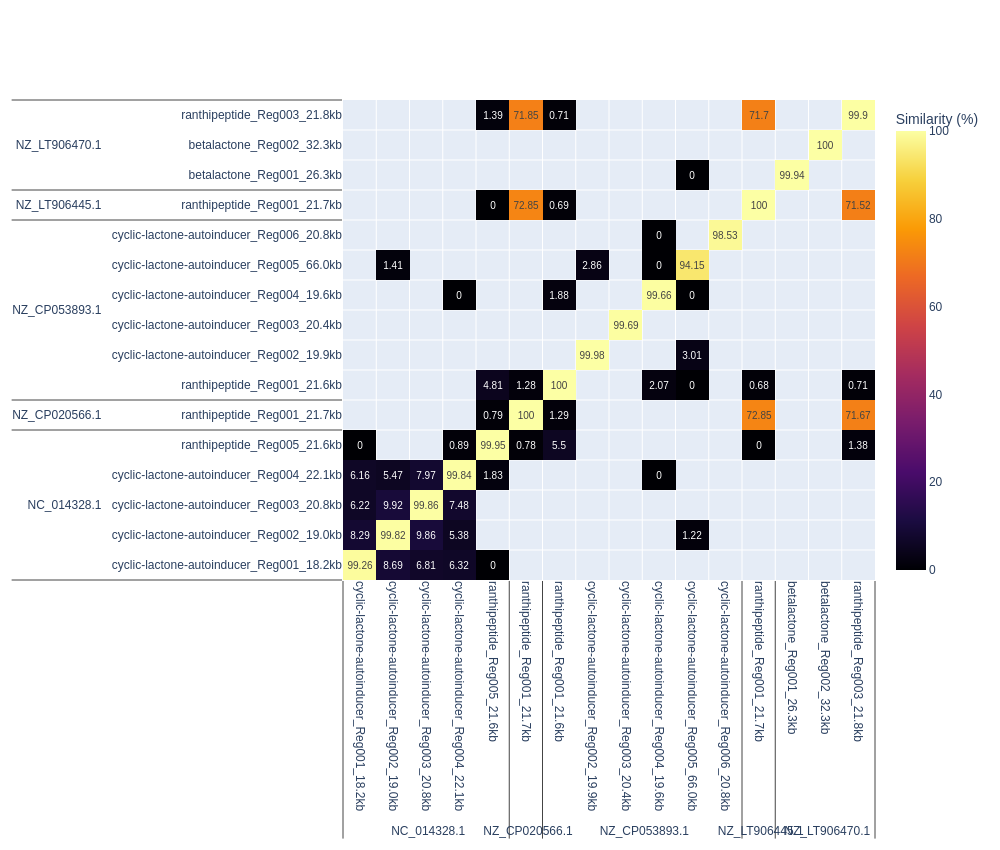
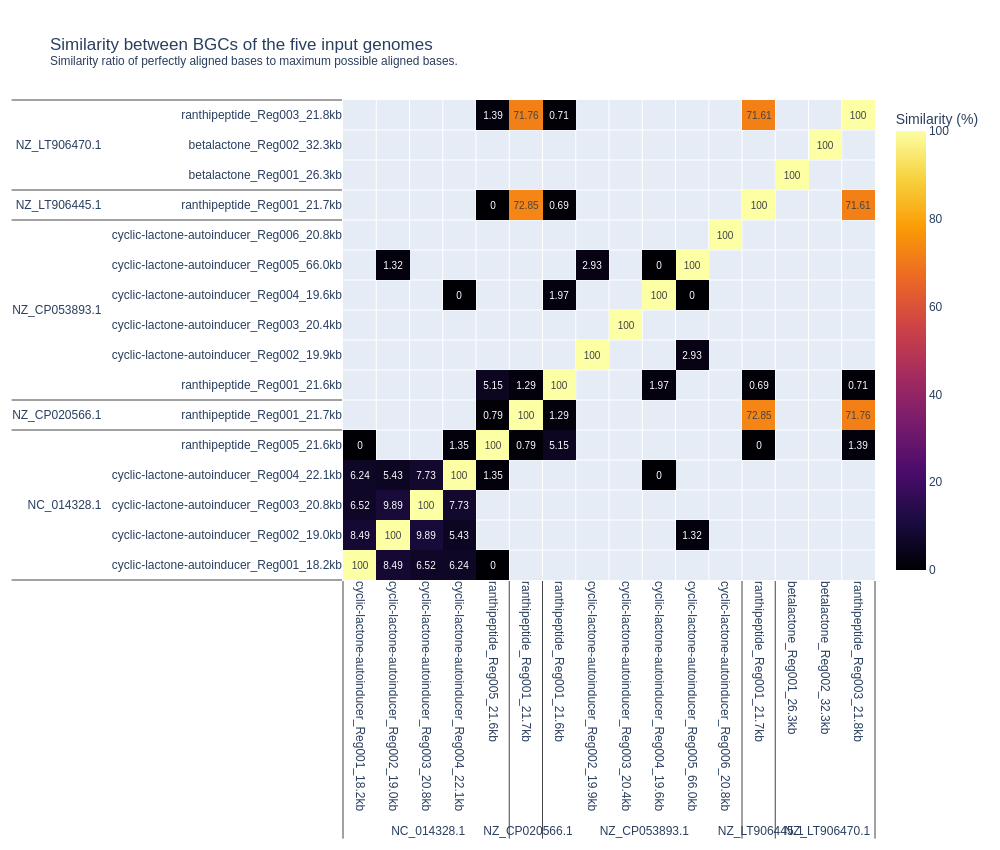
blast now runs with subject_besthit giving better results (incl summation script), fixed logging as child in add_external_logger

diff --git a/analysis/01_compare_input_bgc.py b/analysis/01_compare_input_bgc.py
@@ -31,64 +31,15 @@ def annotation_from_genbank(gbk_files: List[Path]) -> dict:
     return seq_annotation
 
 if __name__ == '__main__':
-
-    print("Running: " + __file__, file=sys.stderr)
-
     antismashdir = Path("data/simulated_data/antismash/input_genomes")
-    fp_pw_blast  = Path("data/simulated_data/blast_pairwise/input_bgc/combined_blast_results.tsv")
-    output       = Path("results/") / Path(__file__).stem
-    output.mkdir(parents=True, exist_ok=True)
-
-    assert(antismashdir.exists())
-    assert(fp_pw_blast.exists())
-
+    symmetric_blastres = Path("data/simulated_data/blast_pairwise/input_bgc/pairwise_table_symmetric.tsv")
+    output = Path("results") / Path(__file__).stem
+    
     gbk_files = [x for x in antismashdir.glob("*.gbk") if x.name != "combined.gbk"]
-    assert(len(gbk_files) > 0)
-
     seq_annotation = annotation_from_genbank(gbk_files)
 
-    df_blast = pd.read_csv(fp_pw_blast, sep="\t")
-  
-
-    #Get summarised p_ident of query coverage.
-    df_blast["weighted_pident"] = df_blast.pident * df_blast.length
-    df_grouped = df_blast.groupby(["qaccver", "saccver"])
-    summarised = []
-    for name, group in df_blast.groupby(["qaccver", "saccver"]):
-        qcov = group.qcovs.iloc[0]
-        summarised_pident = group.weighted_pident.sum() / group.length.sum()
-        summarised.append(name + (qcov, summarised_pident))
-    df_pairwise = pd.DataFrame(
-        data=summarised,
-        columns = ("query", "subject", "query_coverage", "summarised_pident")
-    )
-
-    df_meta = df_pairwise.assign(
-        query_type = [seq_annotation[x]["assigned_type"] for x in df_pairwise['query']],
-        subject_type = [seq_annotation[x]["assigned_type"] for x in df_pairwise['subject']],
-        query_len  = [seq_annotation[x]["seq_len"] for x in df_pairwise['query']],
-        subject_len  = [seq_annotation[x]["seq_len"] for x in df_pairwise['subject']]
-    )
+    df_wide = pd.read_csv(symmetric_blastres, sep="\t", index_col=0)
     
-    #Calculate pairwise similarity as well as aligned bases.
-    ### We have the following similarity measure:
-
-    #sim(q, s) = qcov*qlen *sum_pident / max(qlen, sublen)
-
-    #In essense we find the ratio between aligned bases (scaled by the % identity of aligned bases.)
-    #and the maximum possible aligned bases
-    def similarity_metric(row):
-        aligned_bases = row['query_coverage']*row['query_len']*(row['summarised_pident']/100)
-        maximum_aligned_bases =   row[['query_len', 'subject_len']].max()
-        return (aligned_bases/(1*10**5), aligned_bases / maximum_aligned_bases)
-
-    df_meta[["aligned_bases", "similarity"]] = df_meta.apply(similarity_metric, axis=1, result_type="expand")
-
-
-    ## Visualization
-    # get value matrix:
-    df_wide = df_meta.pivot_table(index="query", columns="subject", values="similarity")
-
     x_ticks = df_wide.columns
     y_ticks = df_wide.index
     values_similarity = df_wide.round(2).fillna("").values
@@ -124,13 +75,13 @@ if __name__ == '__main__':
     ))
 
     fig.update_layout(
-        height=850
+        height=850,
+        title = "Similarity between BGCs of the five input genomes<br><sup>Similarity ratio of perfectly aligned bases to maximum possible aligned bases."
     )
     fig.update_xaxes(tickangle=90, ticklabeloverflow="allow")
 
     print(f"Writing outputs to : {output}", file=sys.stderr)
     fig.write_image(file=output/'blast_bgc_identity_heatmap.png', height=850, width=1000)
-    df_meta.to_csv(output/'blast_annotated_pw_bgc_comparison.csv')
 
     print("Finished: " + __file__, file=sys.stderr)
     

diff --git a/qsub_modules/blastn_pw.py b/qsub_modules/blastn_pw.py
@@ -7,7 +7,7 @@ from typing import Union, List
 from pathlib import Path
 
 class PairwiseBlast(Base):
-    def __init__(self, fasta_file: Path, output_dir: Path, make_database:bool=True):
+    def __init__(self, fasta_file: Path, output_dir: Path, ):
         self.fasta_file = Path(fasta_file)
 
         self.output_dir = Path(output_dir)
@@ -15,9 +15,6 @@ class PairwiseBlast(Base):
 
         self.success_file = self.output_dir/'success'
 
-        if not make_database:
-            self.log.warning("Running the pairwise as query=file, subject=file which is slow for larger comparisons.")
-        self.make_database = make_database
         self.database_path  = self.output_dir / "blastDB" / self.fasta_file.stem
         self.output_columns = "qaccver saccver qstart qend sstart send pident length qcovs qcovhsp mismatch evalue bitscore"
 
@@ -36,32 +33,28 @@ class PairwiseBlast(Base):
         self.output_combined.write_text(self.output_columns.replace(" ", "\t")+"\n")
 
         #prepare for db:
-        if self.make_database:
-            if self.database_path.parent.is_dir():
-                self.log.info("Removing old DB")
-                shutil.rmtree(self.database_path.parent)
-            self.database_path.parent.mkdir(parents=True)
+        if self.database_path.parent.is_dir():
+            self.log.info("Removing old DB")
+            shutil.rmtree(self.database_path.parent)
+        self.database_path.parent.mkdir(parents=True)
 
         if check_input:
             assert(self.fasta_file.exists())
 
     def generate_syscall(self):
         
-        if self.make_database:
-            call = f"""\
-makeblastdb -in {self.fasta_file} -parse_seqids -blastdb_version 5 -title "Database" -dbtype nucl -out {self.database_path}
+        self._syscall = f"""\
+main () {{
+    makeblastdb -in {self.fasta_file} -parse_seqids -blastdb_version 5 -title "Database" -dbtype nucl -out {self.database_path}
 
-blastn -query {self.fasta_file} -db {self.database_path} -task dc-megablast -outfmt "6 {self.output_columns}" -num_threads {self.qsub_args["cores"]-1} >> {self.output_combined}
+    blastn -query {self.fasta_file} -db {self.database_path} -task dc-megablast -outfmt "6 {self.output_columns}" -num_threads {self.qsub_args["cores"]-1} -subject_besthit >> {self.output_combined}
 
-touch {self.success_file}
+    python scripts/symmetrise_blastn.py --blast {self.output_combined} --fasta {self.fasta_file}
+
+    touch {self.success_file}
+}}
+time main
 """
-        else:
-            call = f"""\
-blastn -query {self.fasta_file} -subject {self.fasta_file} -task dc-megablast -outfmt "6 {self.output_columns}" -num_threads {self.qsub_args["cores"]-1} >> {self.output_combined}
-touch {self.success_file}
-"""
-
-        self._syscall=call
 
 if __name__ == "__main__":
     

diff --git a/scripts/symmetrise_blastn.py b/scripts/symmetrise_blastn.py
@@ -1,0 +1,68 @@
+from pathlib import Path
+import pandas as pd
+from Bio import SeqIO
+from typing import List
+
+def summarise_blast_output(df_raw):
+    df = df_raw.copy()
+    df["weighted_pident"] = df.pident * df.length
+
+    summarised = []
+    for name, group in df.groupby(["qaccver", "saccver"]):
+        qcov = group.qcovs.iloc[0]
+        summarised_pident = group.weighted_pident.sum() / group.length.sum()
+        summarised.append(name + (qcov,  summarised_pident))
+    df_summarised = pd.DataFrame(
+        data=summarised,
+        columns = ("query", "subject", "query_coverage", "summarised_pident")
+    )
+    return df_summarised
+
+def similarity_metric(row):
+    aligned_bases = row['query_coverage']*row['qlen']*(row['summarised_pident']/100)
+    maximum_aligned_bases =   row[['qlen', 'slen']].max()
+    return (aligned_bases, aligned_bases / maximum_aligned_bases)
+
+def get_sequence_lengths(mfasta):
+    seq_len = {}
+    for record in SeqIO.parse(mfasta, "fasta"):
+        seq_len[record.name] = len(record.seq)
+    return seq_len
+
+
+if __name__ == "__main__":
+    import argparse
+    import argparse
+    ## Front matter - handle input parsing
+    parser = argparse.ArgumentParser()
+    parser.add_argument("--blast", required=True, type=Path,  help="blast results outfile")
+    parser.add_argument("--fasta", required=True, type=Path, help="query fasta file for blast - required for sequence lengths")
+    parser.add_argument("-o", help="output dir - default to directory of blast file.")
+
+    args = parser.parse_args()
+
+
+    outdir = Path(args.o or args.blast.parent)
+ 
+    out_tsv_summarised          = outdir / "summarised_blast.tsv"
+    out_tsv_table_non_symmetric = outdir / "pairwise_table_non_symmetric.tsv"
+    out_tsv_table_symmetric     = outdir / "pairwise_table_symmetric.tsv"
+
+    df = pd.read_csv(args.blast, sep="\t")
+    df_summarised = summarise_blast_output(df)
+
+    seq_len = get_sequence_lengths(args.fasta)
+
+    df_summarised["qlen"] = [seq_len[x] for x in df_summarised["query"]]
+    df_summarised["slen"] = [seq_len[x] for x in df_summarised["subject"]]
+    
+    df_summarised[["aligned_bases", "similarity"]] = df_summarised.apply(similarity_metric, axis=1, result_type="expand")
+    df_summarised.to_csv(out_tsv_summarised, sep="\t", index=False)
+
+    df_wide = df_summarised.pivot_table(index="query", columns="subject", values="similarity")
+    df_wide.to_csv(out_tsv_table_non_symmetric, sep="\t", index=True)
+
+    values = df_wide.values
+    sym_values = values = (values + values.T) / 2
+    df_wide_sym = pd.DataFrame(sym_values, columns=df_wide.columns, index=df_wide.index)
+    df_wide_sym.to_csv(out_tsv_table_symmetric, sep="\t", index=True)

diff --git a/pipeline/data_simulation.py b/pipeline/data_simulation.py
@@ -101,8 +101,7 @@ dependencies.append(
 )
 job_id_map['blast_pw'] = PairwiseBlast(
     fasta_file = "data/simulated_data/antismash/input_genomes/combined_bgc.fa",
-    output_dir= Path('data/simulated_data/blast_pairwise/input_bgc'),
-    make_database = True
+    output_dir= Path('data/simulated_data/blast_pairwise/input_bgc')
 )
 
 # add pw analysis of bgc
@@ -115,15 +114,23 @@ job_id_map['01_analysis'] = AddToQue(
     name='01_analysis',
 )
 
+# add pw analysis of partial copsag set.
+dependencies.append(
+    ('blast_pw_copsag',)
+)
+job_id_map["blast_pw_copsag"] = PairwiseBlast(
+    fasta_file="/home/projects/dtu_00009/people/henspi/copsac_bgc.fa",
+    output_dir="data/simulated_data/blast_pairwise/copsag"
+)
 
 pipeline_simulate = PipelineBase(
     pipe_name="SimulateData",
     dependencies = dependencies,
     job_map = job_id_map,
-    iteration_sleep=10,
+    iteration_sleep=30,
     testing=False
 )
 
 if __name__ == "__main__":
     pipeline_simulate.run_pipeline()
-
+    pass

diff --git a/pipeline/pipeline_base.py b/pipeline/pipeline_base.py
@@ -134,6 +134,9 @@ jobs_failed: ({len(self.jobs_failed)})
         all_jobs = set()
         dependency_dict = {}
         for dep in self.dependencies:
+            if len(dep) == 1: # use this approach ("jobname", ) to add jobs without prior dependencies
+                all_jobs.add(dep[0])
+                continue
             parents = dep[0] if isinstance(dep[0], set) else {dep[0]}
             children = dep[1] if isinstance(dep[1], set) else {dep[1]}
             all_jobs.update(parents ^ children)
@@ -220,6 +223,7 @@ jobs_failed: ({len(self.jobs_failed)})
                 continue
 
             if job_cls.is_complete:
+                time.sleep(2) #It appears we sometimes miss the successfile - perhaps a slight desync issue.
                 if job_cls.is_successful:
                     self.log.info(f"{job} has succesfully completed")
                     self.jobs_running.remove(job)

diff --git a/qsub_modules/base.py b/qsub_modules/base.py
@@ -68,7 +68,7 @@ class Base:
         return self._log
     
     def add_external_log(self, log: logging.Logger):
-        self.log.handlers = log.handlers
+        self._log = log.getChild(self.log_setup["name"])
 
   
     @property

diff --git a/lib/catalogue_assembler.py b/lib/catalogue_assembler.py
@@ -11,7 +11,7 @@ from dataclasses import dataclass, field
 
 import numpy as np
 
-from qsub_modules.kmer_gen_catalogue import canonicalize
+#from scripts.kmer_gen_catalogue import canonicalize
 
 @dataclass
 class BGCData:
